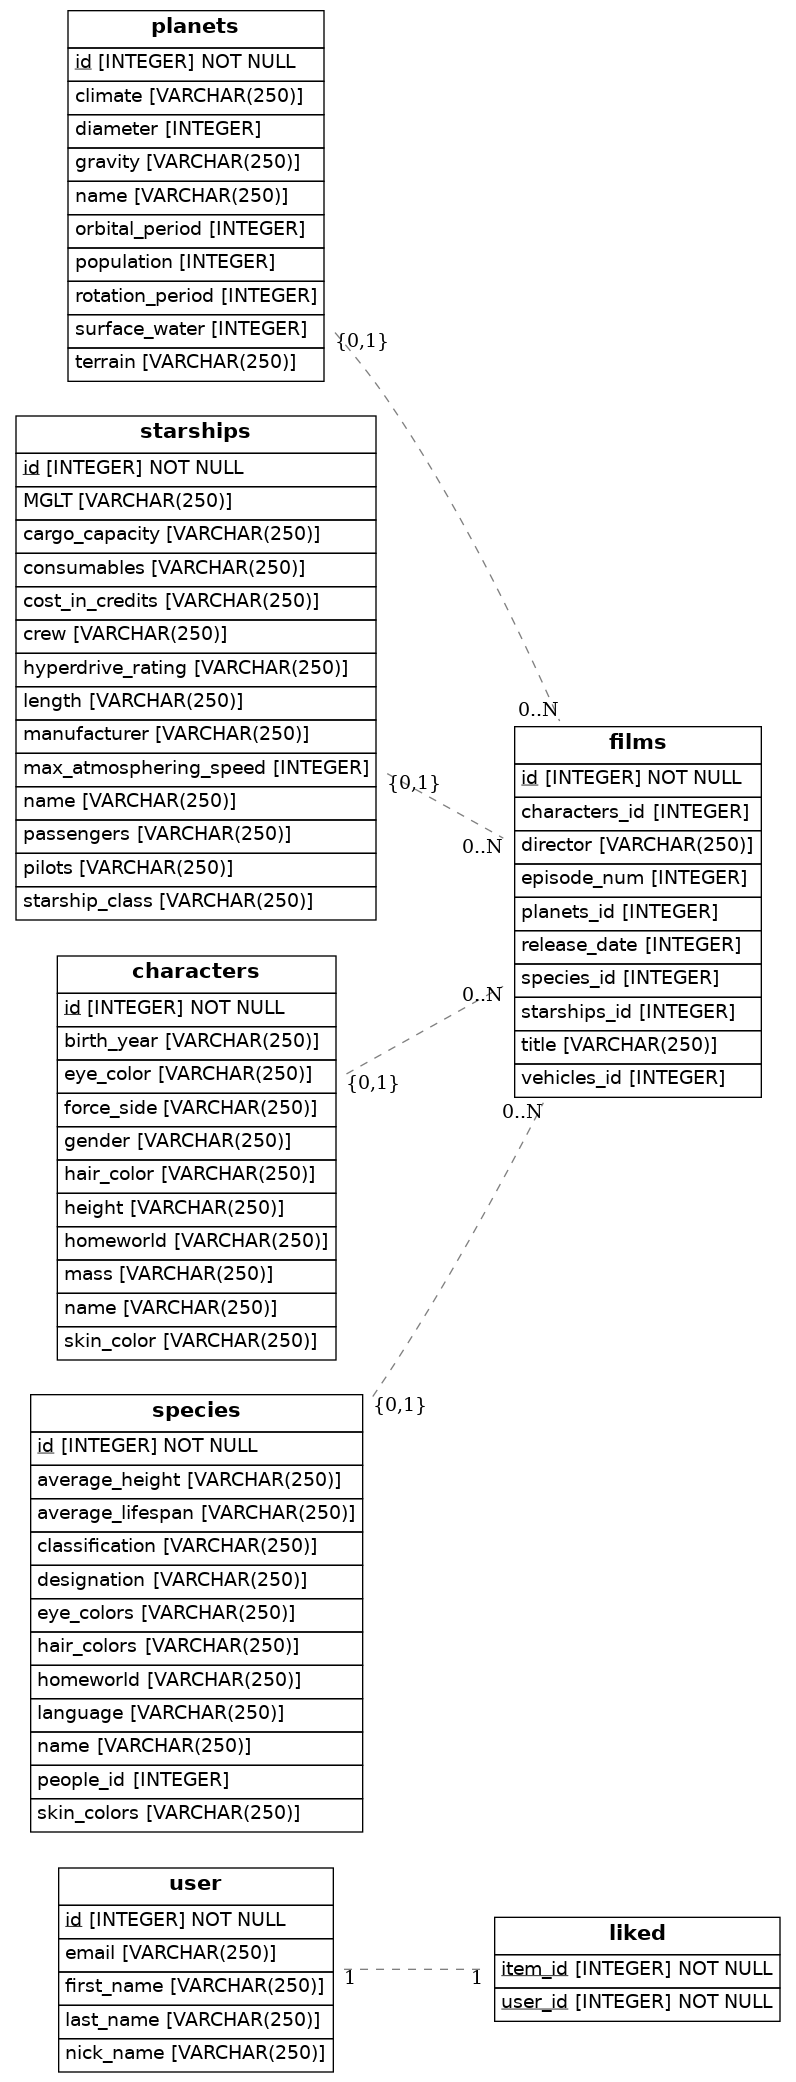
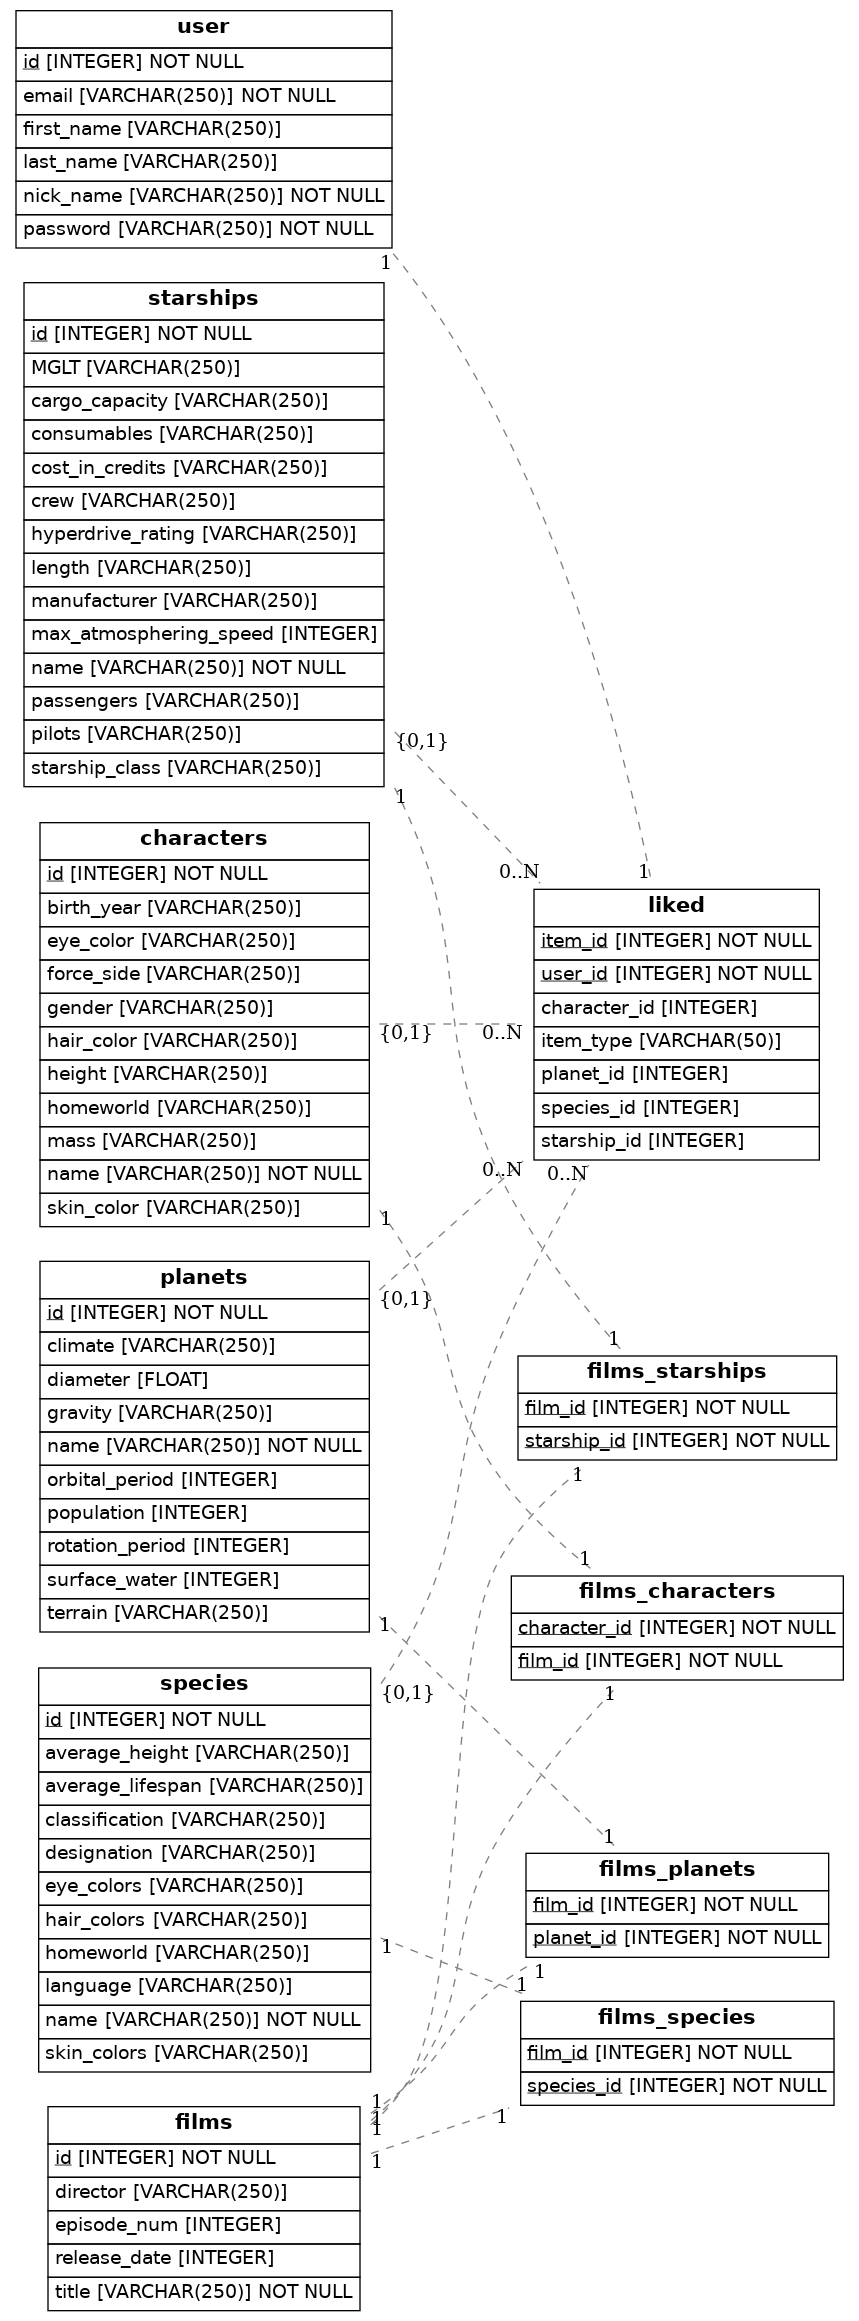
funciona

diff --git a/src/models.py b/src/models.py
@@ -1,25 +1,47 @@
 import os
 import sys
-from sqlalchemy import Column, ForeignKey, Integer, String, Text, Enum, create_engine
+from sqlalchemy import Column, ForeignKey, Integer, String, Table, create_engine, Float
 from sqlalchemy.orm import relationship, declarative_base
 from eralchemy2 import render_er
 
 Base = declarative_base()
 
+# Association Tables
+films_characters = Table('films_characters', Base.metadata,
+    Column('film_id', Integer, ForeignKey('films.id'), primary_key=True),
+    Column('character_id', Integer, ForeignKey('characters.id'), primary_key=True)
+)
+
+films_planets = Table('films_planets', Base.metadata,
+    Column('film_id', Integer, ForeignKey('films.id'), primary_key=True),
+    Column('planet_id', Integer, ForeignKey('planets.id'), primary_key=True)
+)
+
+films_starships = Table('films_starships', Base.metadata,
+    Column('film_id', Integer, ForeignKey('films.id'), primary_key=True),
+    Column('starship_id', Integer, ForeignKey('starships.id'), primary_key=True)
+)
+
+films_species = Table('films_species', Base.metadata,
+    Column('film_id', Integer, ForeignKey('films.id'), primary_key=True),
+    Column('species_id', Integer, ForeignKey('species.id'), primary_key=True)
+)
+
 class User(Base):
     __tablename__ = 'user'
     id = Column(Integer, primary_key=True)
-    nick_name = Column(String(250))
+    nick_name = Column(String(250), nullable=False, unique=True)
     first_name = Column(String(250))
     last_name = Column(String(250))
-    email = Column(String(250))
+    email = Column(String(250), nullable=False, unique=True)
+    password = Column(String(250), nullable=False)
     liked_items = relationship("Liked", back_populates="user")
 
 class Planets(Base):
     __tablename__ = 'planets'
     id = Column(Integer, primary_key=True)
-    name = Column(String(250))
-    diameter = Column(Integer)
+    name = Column(String(250), nullable=False)
+    diameter = Column(Float)
     rotation_period = Column(Integer)
     orbital_period = Column(Integer)
     gravity = Column(String(250))
@@ -27,13 +49,13 @@ class Planets(Base):
     climate = Column(String(250))
     terrain = Column(String(250))
     surface_water = Column(Integer)
-    films = relationship("Films", back_populates="planets")
-    liked_items = relationship("Liked", back_populates="planets")
+    films = relationship("Films", secondary=films_planets, back_populates="planets")
+    liked_items = relationship("Liked", back_populates="planet")
 
 class Starships(Base):
     __tablename__ = 'starships'
     id = Column(Integer, primary_key=True)
-    name = Column(String(250))
+    name = Column(String(250), nullable=False)
     starship_class = Column(String(250))
     manufacturer = Column(String(250))
     cost_in_credits = Column(String(250))
@@ -46,13 +68,13 @@ class Starships(Base):
     cargo_capacity = Column(String(250))
     consumables = Column(String(250))
     pilots = Column(String(250))
-    films = relationship("Films", back_populates="starships")
-    liked_items = relationship("Liked", back_populates="starships")
+    films = relationship("Films", secondary=films_starships, back_populates="starships")
+    liked_items = relationship("Liked", back_populates="starship")
 
 class Characters(Base):
     __tablename__ = 'characters'
     id = Column(Integer, primary_key=True)
-    name = Column(String(250))
+    name = Column(String(250), nullable=False)
     height = Column(String(250))
     mass = Column(String(250))
     hair_color = Column(String(250))
@@ -62,31 +84,13 @@ class Characters(Base):
     gender = Column(String(250))
     homeworld = Column(String(250))
     force_side = Column(String(250))
-    films = relationship("Films", back_populates="characters")
-    liked_items = relationship("Liked", back_populates="characters")
-
-class Films(Base):
-    __tablename__ = 'films'
-    id = Column(Integer, primary_key=True)
-    title = Column(String(250))
-    episode_num = Column(Integer)
-    characters_id = Column(Integer, ForeignKey('characters.id'))
-    planets_id = Column(Integer, ForeignKey('planets.id'))
-    starships_id = Column(Integer, ForeignKey('starships.id'))
-    vehicles_id = Column(Integer)
-    species_id = Column(Integer, ForeignKey('species.id'))
-    release_date = Column(Integer)
-    director = Column(String(250))
-    
-    characters = relationship('Characters', back_populates="films")
-    planets = relationship('Planets', back_populates="films")
-    starships = relationship('Starships', back_populates="films")
-    species = relationship('Species', back_populates="films")
+    films = relationship("Films", secondary=films_characters, back_populates="characters")
+    liked_items = relationship("Liked", back_populates="character")
 
 class Species(Base):
     __tablename__ = 'species'
     id = Column(Integer, primary_key=True)
-    name = Column(String(250))
+    name = Column(String(250), nullable=False)
     classification = Column(String(250))
     designation = Column(String(250))
     average_height = Column(String(250))
@@ -96,25 +100,42 @@ class Species(Base):
     eye_colors = Column(String(250))
     homeworld = Column(String(250))
     language = Column(String(250))
-    people_id = Column(Integer)
-    films = relationship("Films", back_populates="species")
+    films = relationship("Films", secondary=films_species, back_populates="species")
     liked_items = relationship("Liked", back_populates="species")
+
+class Films(Base):
+    __tablename__ = 'films'
+    id = Column(Integer, primary_key=True)
+    title = Column(String(250), nullable=False)
+    episode_num = Column(Integer)
+    release_date = Column(Integer)
+    director = Column(String(250))
+
+    characters = relationship('Characters', secondary=films_characters, back_populates='films')
+    planets = relationship('Planets', secondary=films_planets, back_populates='films')
+    starships = relationship('Starships', secondary=films_starships, back_populates='films')
+    species = relationship('Species', secondary=films_species, back_populates='films')
 
 class Liked(Base):
     __tablename__ = 'liked'
     user_id = Column(Integer, ForeignKey('user.id'), primary_key=True)
     item_id = Column(Integer, primary_key=True)
-    
+    item_type = Column(String(50))  
+
+    character_id = Column(Integer, ForeignKey('characters.id'))
+    planet_id = Column(Integer, ForeignKey('planets.id'))
+    starship_id = Column(Integer, ForeignKey('starships.id'))
+    species_id = Column(Integer, ForeignKey('species.id'))
+
     user = relationship('User', back_populates="liked_items")
-    characters = relationship('Characters', back_populates="liked_items")
-    planets = relationship('Planets', back_populates="liked_items")
-    starships = relationship('Starships', back_populates="liked_items")
+    character = relationship('Characters', back_populates="liked_items")
+    planet = relationship('Planets', back_populates="liked_items")
+    starship = relationship('Starships', back_populates="liked_items")
     species = relationship('Species', back_populates="liked_items")
 
 
 ## Draw from SQLAlchemy base
 try:
-
     result = render_er(Base, 'diagram.png')
     print("FUKING Success! Check the diagram.png file")
 except Exception as e:
